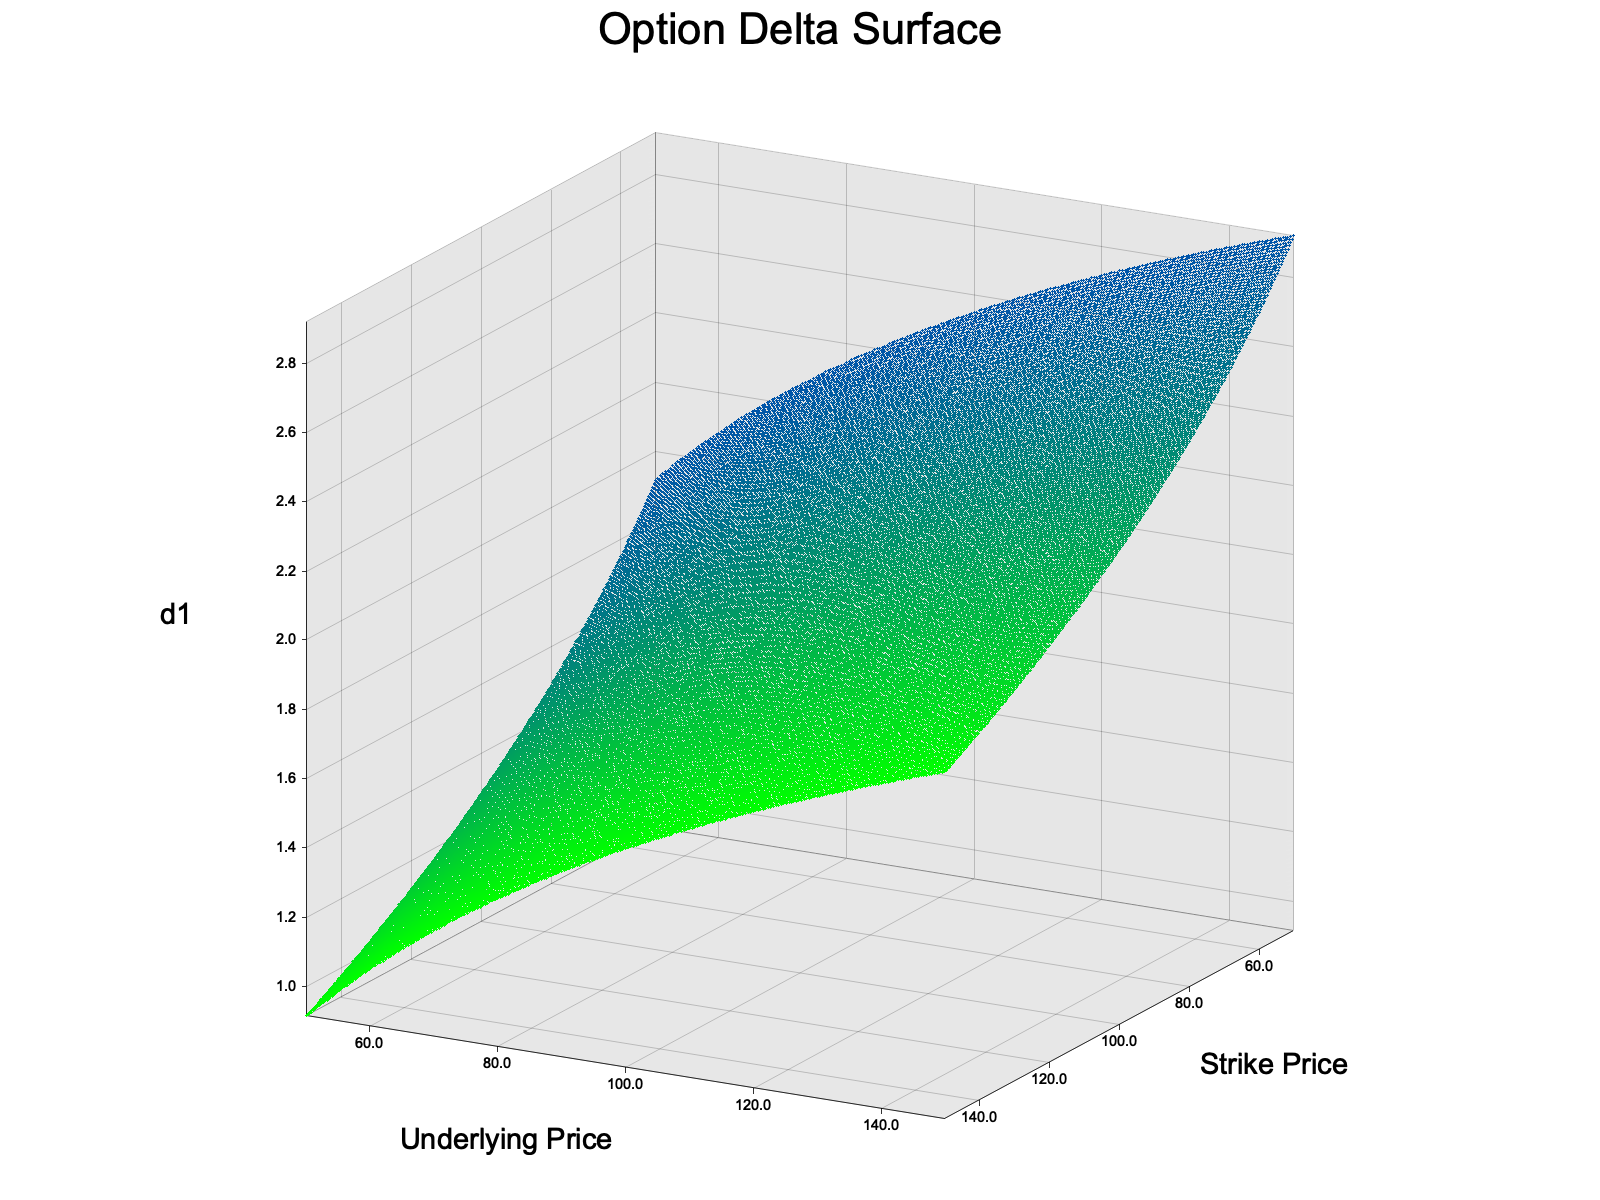
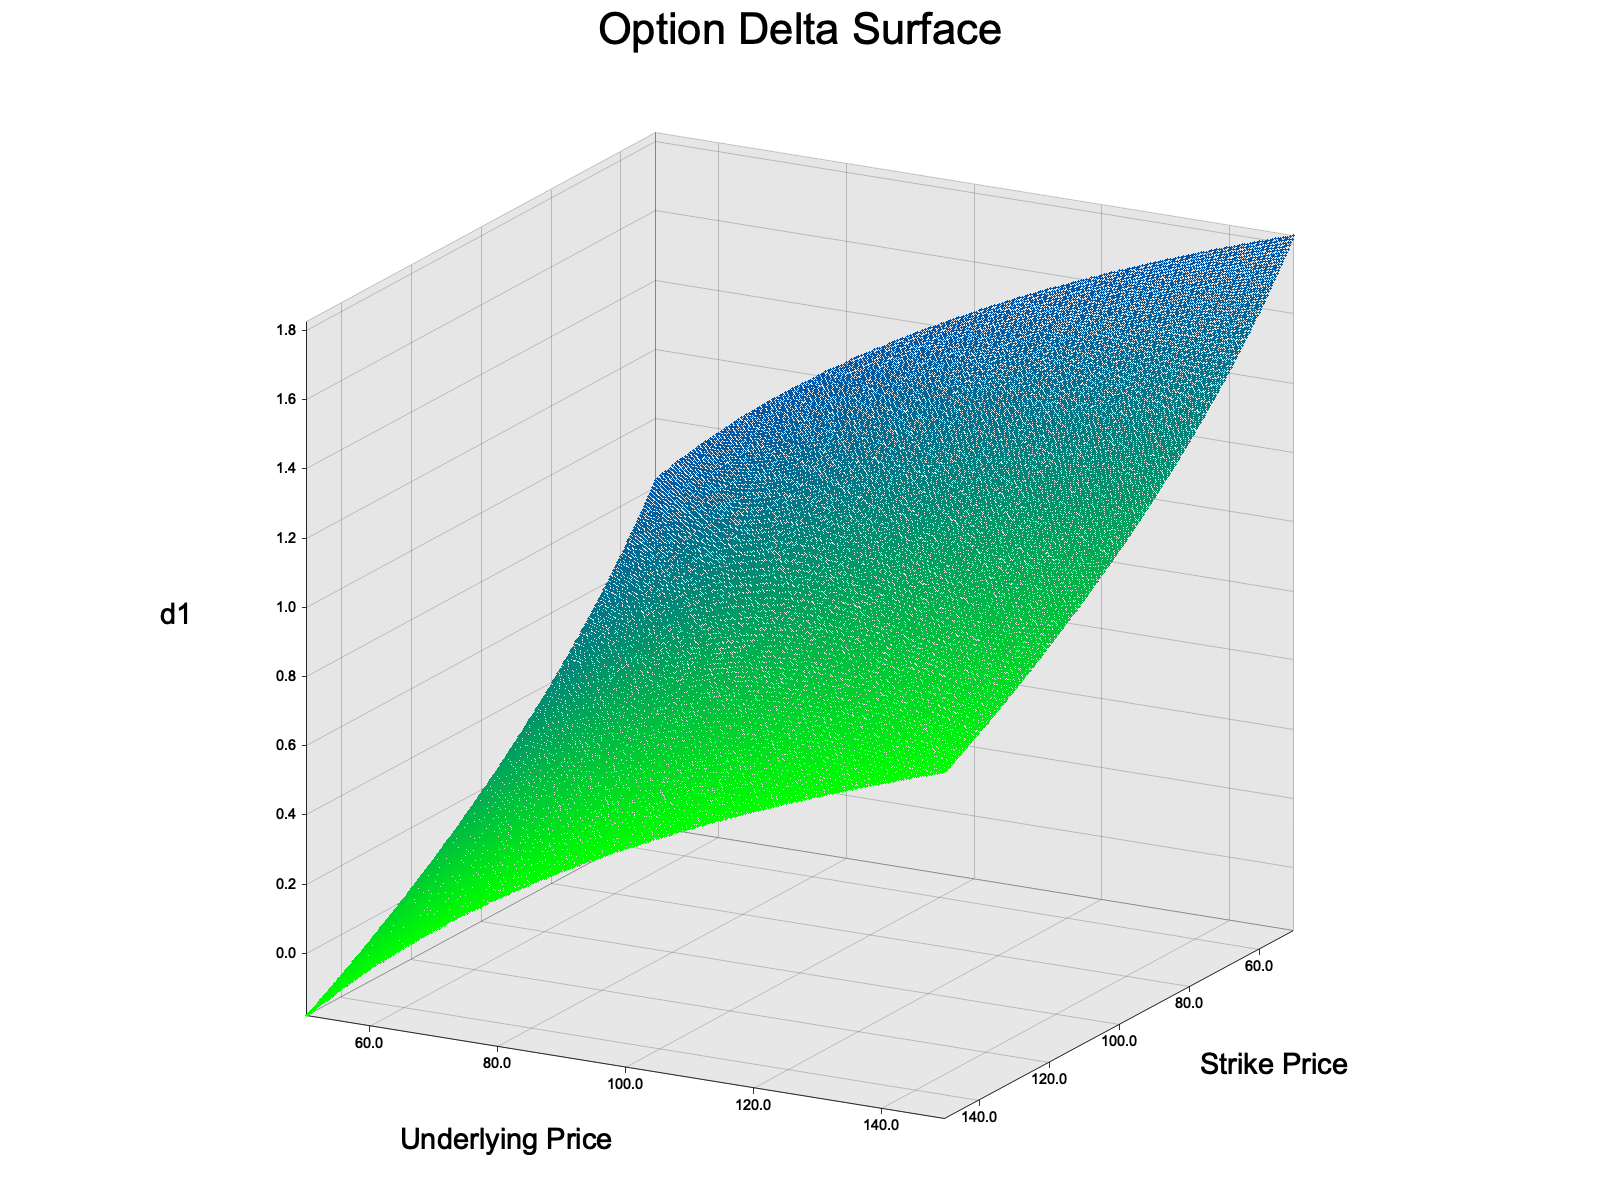
Add D2 surface plotting example.
Introduced a new `d2_curve` binary example to compute and visualize the D2 surface using parameterized construction. Adjusted surface visualization to rename "Option Delta Surface" to "D1 Surface" for consistency. Removed legacy code and redundant implementations to streamline the plotting module. (ref. #116)

diff --git a/src/surfaces/visualization/plotters.rs b/src/surfaces/visualization/plotters.rs
@@ -229,198 +229,6 @@ impl PlotBuilderExt<Surface> for PlotBuilder<Surface> {
     }
 }
 
-/// Implementation of the `PlotBuilderExt` trait for `PlotBuilder<Vec<Surface>>`.
-///
-/// This implementation allows saving a plot to a file by utilizing the `plotters` library.
-/// The `save` method takes a file path as input and generates a plot based on the data and
-/// configuration options provided in the `PlotBuilder`.
-///
-/// # Functionality
-/// - **Surface Points Preparation**: It iterates over the curve data (`data`) and transforms
-///   the points into a collection of `(f64, f64)` tuples, which are compatible with the `plotters` library.
-/// - **Plot Range Calculation**: Determines the plot's x and y axis ranges by collecting
-///   minimum and maximum values across all the curve points.
-/// - **Plot Rendering**: The method sets up a plot with custom title, axis labels, line colors,
-///   line widths, and other visual properties defined in `PlotOptions`.
-/// - **Surface Drawing**: Each curve is drawn using the `LineSeries` feature from `plotters`.
-///   A unique color is assigned to each curve, repeated cyclically if the number of curves
-///   exceeds the number of available colors in the palette.
-/// - **Legend Display**: A legend is added to the plot using the series' labels.
-/// - **Error Handling**: The method handles unexpected errors during chart creation, curve
-///   rendering, or plot saving, by propagating them as `SurfaceError` instances.
-///
-/// # Parameters
-/// - **`self`**: The `PlotBuilder` instance containing the curve data (`data`) and configuration
-///   options (`options`).
-/// - **`path`**: A path to the file where the plot will be saved. This path can be provided as
-///   any value that implements the `AsRef<Path>` trait.
-///
-/// # Return Value
-/// - Returns `Ok(())` on success, indicating that the plot was saved successfully.
-/// - Returns `Err(SurfaceError)` on failure, encapsulating the failure reason as a string.
-///
-/// # Dependencies
-/// - Uses the `plotters` library for rendering the plot.
-/// - Leverages utility methods like `.fold()`, `.iter()`, and `.map()` to process curve data.
-/// - Relies on `self.options` for plot customization (e.g., width, height, colors, etc.).
-///
-/// # Error Handling
-/// Any errors encountered during the plot creation or file save process are encapsulated
-/// as `SurfaceError` with a `StdError` variant and a descriptive error message.
-///
-/// # Algorithm
-/// 1. **Fetch Surface Points**: Convert the curves' `Point3D` instances to `(f64, f64)` tuples.
-///    Use `to_f64` conversion for high precision.
-/// 2. **Calculate Axis Ranges**: Find minimum (`x_min`, `y_min`) and maximum (`x_max`, `y_max`)
-///    values for x and y axes across all curve points.
-/// 3. **Set Up Plot**: Create the drawing area using `BitMapBackend` with the specified dimensions
-///    and background color in `options`.
-/// 4. **Configure Chart**: Use `ChartBuilder` to define margins, axis labels, and title.
-/// 5. **Draw Axes**: Configure and draw the x and y axes with proper labels and formatting.
-/// 6. **Draw Surfaces**: Iterate through the prepared curve points and draw each curve with a distinct color.
-/// 7. **Add Legend**: Add a legend area showing the labels for each curve.
-/// 8. **Save Plot**: Serialize and save the plot to the specified file path, returning any errors if encountered.
-///
-/// # Usage Considerations
-/// - The `self.options.line_colors` must contain enough colors to accommodate all curves.
-///   If fewer colors are specified, the colors will repeat cyclically.
-/// - The `background_color` and `line_width` options affect the overall appearance.
-/// - The success of the plot rendering depends on valid and well-formed curve data (`Vec<Surface>`).
-///
-/// # Examples of Dependencies
-/// - **Associated Traits**: Must be used with the `PlotBuilder` struct and a compatible `Vec<Surface>` data type.
-/// - **Color Palettes**: The `PlotOptions::default_colors` method provides a default color palette.
-///
-/// # Related Types
-/// - **`PlotBuilder`**: Used to encapsulate curve data and configuration options.
-/// - **`PlotOptions`**: Provides visual and layout customization for the plot.
-/// - **`SurfaceError`**: Represents errors that can occur while saving the plot.
-///
-/// # Remarks
-/// - The method is tightly integrated with `plotters` and uses its core components
-///   (`BitMapBackend`, `ChartBuilder`, `LineSeries`, etc.) for chart creation.
-/// - The precision of `Point3D::x` and `Point3D::y` values is preserved by converting them from
-///   `Decimal` to `f64` when plotting.
-impl PlotBuilderExt<Vec<Surface>> for PlotBuilder<Vec<Surface>> {
-    #[cfg(target_arch = "wasm32")]
-    fn save(self, _path: impl AsRef<Path>) -> Result<(), SurfaceError> {
-        // Do nothing in wasm
-        Ok(())
-    }
-
-    #[cfg(not(target_arch = "wasm32"))]
-    fn save(self, path: impl AsRef<Path>) -> Result<(), SurfaceError> {
-        // Prepare all curve points
-        let all_curve_points: Vec<Vec<(f64, f64)>> = self
-            .data
-            .iter()
-            .map(|curve| {
-                curve
-                    .points
-                    .iter()
-                    .map(|p| (p.x.to_f64().unwrap_or(0.0), p.y.to_f64().unwrap_or(0.0)))
-                    .collect()
-            })
-            .collect();
-
-        // Determine overall plot range
-        let x_min = all_curve_points
-            .iter()
-            .flat_map(|points| points.iter().map(|p| p.0))
-            .fold(f64::INFINITY, f64::min);
-        let x_max = all_curve_points
-            .iter()
-            .flat_map(|points| points.iter().map(|p| p.0))
-            .fold(f64::NEG_INFINITY, f64::max);
-        let y_min = all_curve_points
-            .iter()
-            .flat_map(|points| points.iter().map(|p| p.1))
-            .fold(f64::INFINITY, f64::min);
-        let y_max = all_curve_points
-            .iter()
-            .flat_map(|points| points.iter().map(|p| p.1))
-            .fold(f64::NEG_INFINITY, f64::max);
-
-        // Create drawing area
-        let root = BitMapBackend::new(path.as_ref(), (self.options.width, self.options.height))
-            .into_drawing_area();
-
-        root.fill(&self.options.background_color)
-            .map_err(|e| SurfaceError::StdError {
-                reason: e.to_string(),
-            })?;
-
-        let mut chart = ChartBuilder::on(&root)
-            .caption(
-                self.options.title.unwrap_or_default(),
-                ("Arial", 30).into_font(),
-            )
-            .margin(5)
-            .x_label_area_size(30)
-            .y_label_area_size(30)
-            .build_cartesian_2d(x_min..x_max, y_min..y_max)
-            .map_err(|e| SurfaceError::StdError {
-                reason: e.to_string(),
-            })?;
-
-        
-        // Configure axes
-        chart
-            .configure_mesh()
-            .x_label_formatter(&|v| format!("{:.2}", v))
-            .y_label_formatter(&|v| format!("{:.2}", v))
-            .x_desc(self.options.x_label.as_deref().unwrap_or("X"))
-            .y_desc(self.options.y_label.as_deref().unwrap_or("Y"))
-            .draw()
-            .map_err(|e| SurfaceError::StdError {
-                reason: e.to_string(),
-            })?;
-
-        // Determine colors
-        let colors: &Vec<RGBColor> = &self
-            .options
-            .line_colors
-            .unwrap_or_else(PlotOptions::default_colors);
-
-        // Draw curves
-        for (i, points) in all_curve_points.into_iter().enumerate() {
-            let default_name = &format!("Surface {}", i + 1);
-            let label = match &self.options.curve_name {
-                Some(names) => names.get(i).map(|s| s.as_str()).unwrap_or(default_name),
-                None => default_name,
-            };
-
-            // Clone colors for this iteration
-            let legend_color = colors[i % colors.len()];
-
-            chart
-                .draw_series(LineSeries::new(
-                    points,
-                    colors[i % colors.len()].stroke_width(self.options.line_width),
-                ))
-                .map_err(|e| SurfaceError::StdError {
-                    reason: e.to_string(),
-                })?
-                .label(label)
-                .legend(move |c| Circle::new(c, 3, legend_color.filled()));
-        }
-
-        // Add legend
-        chart
-            .configure_series_labels()
-            .border_style(BLACK)
-            .draw()
-            .map_err(|e| SurfaceError::StdError {
-                reason: e.to_string(),
-            })?;
-
-        root.present().map_err(|e| SurfaceError::StdError {
-            reason: e.to_string(),
-        })?;
-
-        Ok(())
-    }
-}
 
 #[cfg(test)]
 mod tests {
@@ -479,35 +287,7 @@ mod tests {
             .expect("Single curve plot failed");
         cleanup_image("single_curve_test.png")
     }
-
-    #[test]
-    fn test_multiple_curves_plot() {
-        let p1_1 = Point3D::new(dec!(0.0), dec!(0.0), dec!(0.0));
-        let p1_2 = Point3D::new(dec!(1.0), dec!(1.0), dec!(1.0));
-        let p1_3 = Point3D::new(dec!(2.0), dec!(4.0), dec!(4.0));
-        let p2_1 = Point3D::new(dec!(0.0), dec!(1.0), dec!(1.0));
-        let p2_2 = Point3D::new(dec!(1.0), dec!(2.0), dec!(2.0));
-        let p2_3 = Point3D::new(dec!(2.0), dec!(5.0), dec!(5.0));
-
-        let points1 = vec![&p1_1, &p1_2, &p1_3];
-        let points2 = vec![&p2_1, &p2_2, &p2_3];
-
-        let curve1 = Surface::from_vector(points1);
-        let curve2 = Surface::from_vector(points2);
-
-        // Plot multiple curves
-        vec![curve1, curve2]
-            .plot()
-            .title("Multiple Surfaces")
-            .x_label("X Axis")
-            .y_label("Y Axis")
-            .dimensions(800, 600) // Añade dimensiones explícitas
-            .save("multiple_curves_test.png")
-            .expect("Multiple curves plot failed");
-
-        cleanup_image("multiple_curves_test.png");
-    }
-
+    
     #[test]
     fn test_single_curve_plot() {
         let p1_1 = Point3D::new(dec!(0.0), dec!(0.0), dec!(0.0));
@@ -528,56 +308,7 @@ mod tests {
             .expect("Single curve plot failed");
         cleanup_image("single_curve_test.png");
     }
-
-    #[test]
-    fn test_multiple_curves_plot_bis() {
-        let (curve1, curve2, curve3) = create_test_curves();
-
-        // Plot multiple curves
-        vec![curve1, curve2, curve3]
-            .plot()
-            .title("Multiple Surfaces")
-            .x_label("X Axis")
-            .y_label("Y Axis")
-            .dimensions(1000, 700)
-            .save("multiple_curves_test.png")
-            .expect("Multiple curves plot failed");
-
-        cleanup_image("multiple_curves_test.png");
-    }
-
-    #[test]
-    fn test_plot_with_custom_colors() {
-        let (curve1, curve2, _) = create_test_curves();
-
-        // Custom color plot
-        vec![curve1, curve2]
-            .plot()
-            .title("Colored Surfaces")
-            .line_colors(vec![
-                RGBColor(255, 0, 0), // Red
-                RGBColor(0, 0, 255), // Blue
-            ])
-            .dimensions(800, 600)
-            .save("colored_curves_test.png")
-            .expect("Colored curves plot failed");
-        cleanup_image("colored_curves_test.png");
-    }
-
-    #[test]
-    fn test_plot_with_custom_line_width() {
-        let (curve1, curve2, _) = create_test_curves();
-
-        // Custom line width
-        vec![curve1, curve2]
-            .plot()
-            .title("Thick Line Surfaces")
-            .line_width(4) // Thicker lines
-            .dimensions(800, 600)
-            .save("thick_line_curves_test.png")
-            .expect("Thick line curves plot failed");
-        cleanup_image("thick_line_curves_test.png");
-    }
+    
 
     #[test]
     fn test_plot_options_defaults() {
@@ -593,23 +324,7 @@ mod tests {
             RGBColor(255, 255, 255)
         );
     }
-
-    #[test]
-    fn test_plot_builder_chaining() {
-        let (curve1, curve2, _) = create_test_curves();
-
-        // Test method chaining
-        vec![curve1, curve2]
-            .plot()
-            .title("Chained Surfaces")
-            .x_label("Custom X")
-            .y_label("Custom Y")
-            .line_width(3)
-            .dimensions(1200, 800)
-            .save("chained_curves_test.png")
-            .expect("Chained curves plot failed");
-        cleanup_image("chained_curves_test.png");
-    }
+    
 
     #[test]
     fn test_plot_with_extreme_points() {

diff --git a/examples/examples_surfaces/src/bin/d2_curve.rs b/examples/examples_surfaces/src/bin/d2_curve.rs
@@ -3,7 +3,7 @@ use optionstratlib::error::SurfaceError;
 use optionstratlib::geometrics::{
     ConstructionMethod, ConstructionParams, GeometricObject, Plottable,
 };
-use optionstratlib::greeks::d1;
+use optionstratlib::greeks::{d1, d2};
 use optionstratlib::surfaces::{Point3D, Surface};
 use optionstratlib::utils::setup_logger;
 use optionstratlib::{pos, Positive};
@@ -30,7 +30,7 @@ fn main() -> Result<(), SurfaceError> {
             let underlying = Positive::new_decimal(t.x).unwrap();
 
             // Calculate delta
-            let delta_value = d1(underlying, strike, dec!(0.05), pos!(30.0), pos!(0.2))?;
+            let delta_value = d2(underlying, strike, dec!(0.05), pos!(30.0), pos!(0.2))?;
 
             // Create a 3D point with underlying price (x), strike price (y), and delta (z)
             Ok(Point3D::new(t.x, t.y, delta_value))
@@ -41,14 +41,14 @@ fn main() -> Result<(), SurfaceError> {
     // Plot the surface
     delta_surface
         .plot()
-        .title("D1 Surface")
+        .title("D2 Surface")
         .x_label("Underlying Price")
         .y_label("Strike Price")
         .z_label("d1")
         .point_size(1)
         .label_size(1.8)
         .dimensions(1600, 1200)
-        .save("./Draws/Surfaces/d1_surface.png")?;
+        .save("./Draws/Surfaces/d2_surface.png")?;
 
     Ok(())
 }
